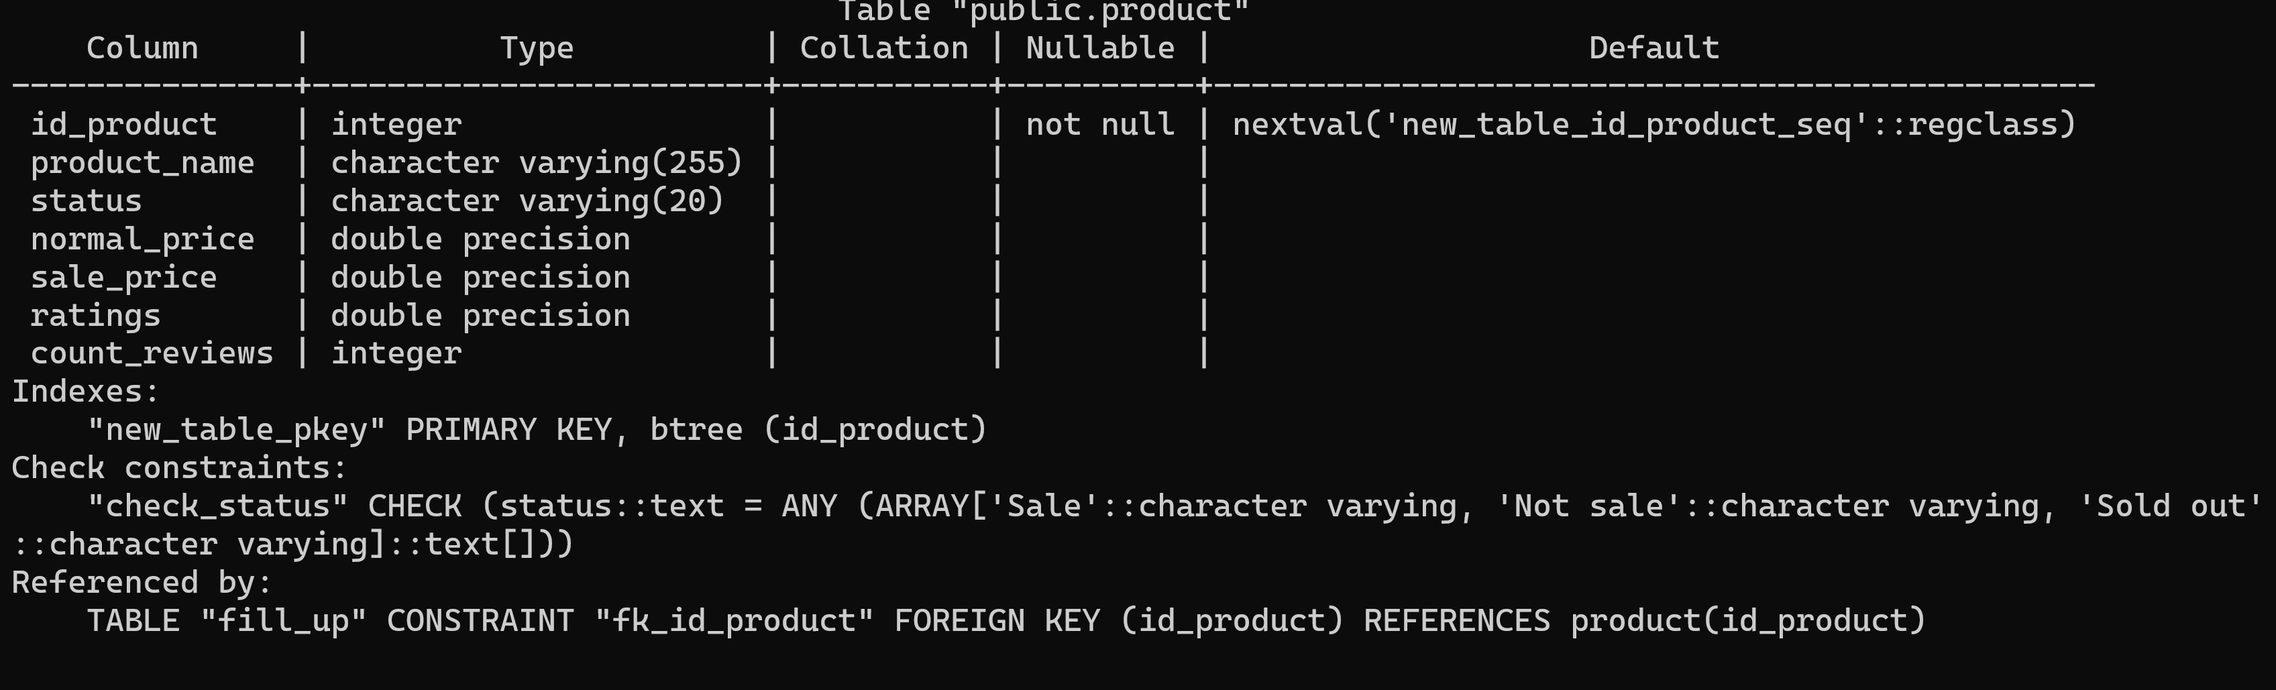
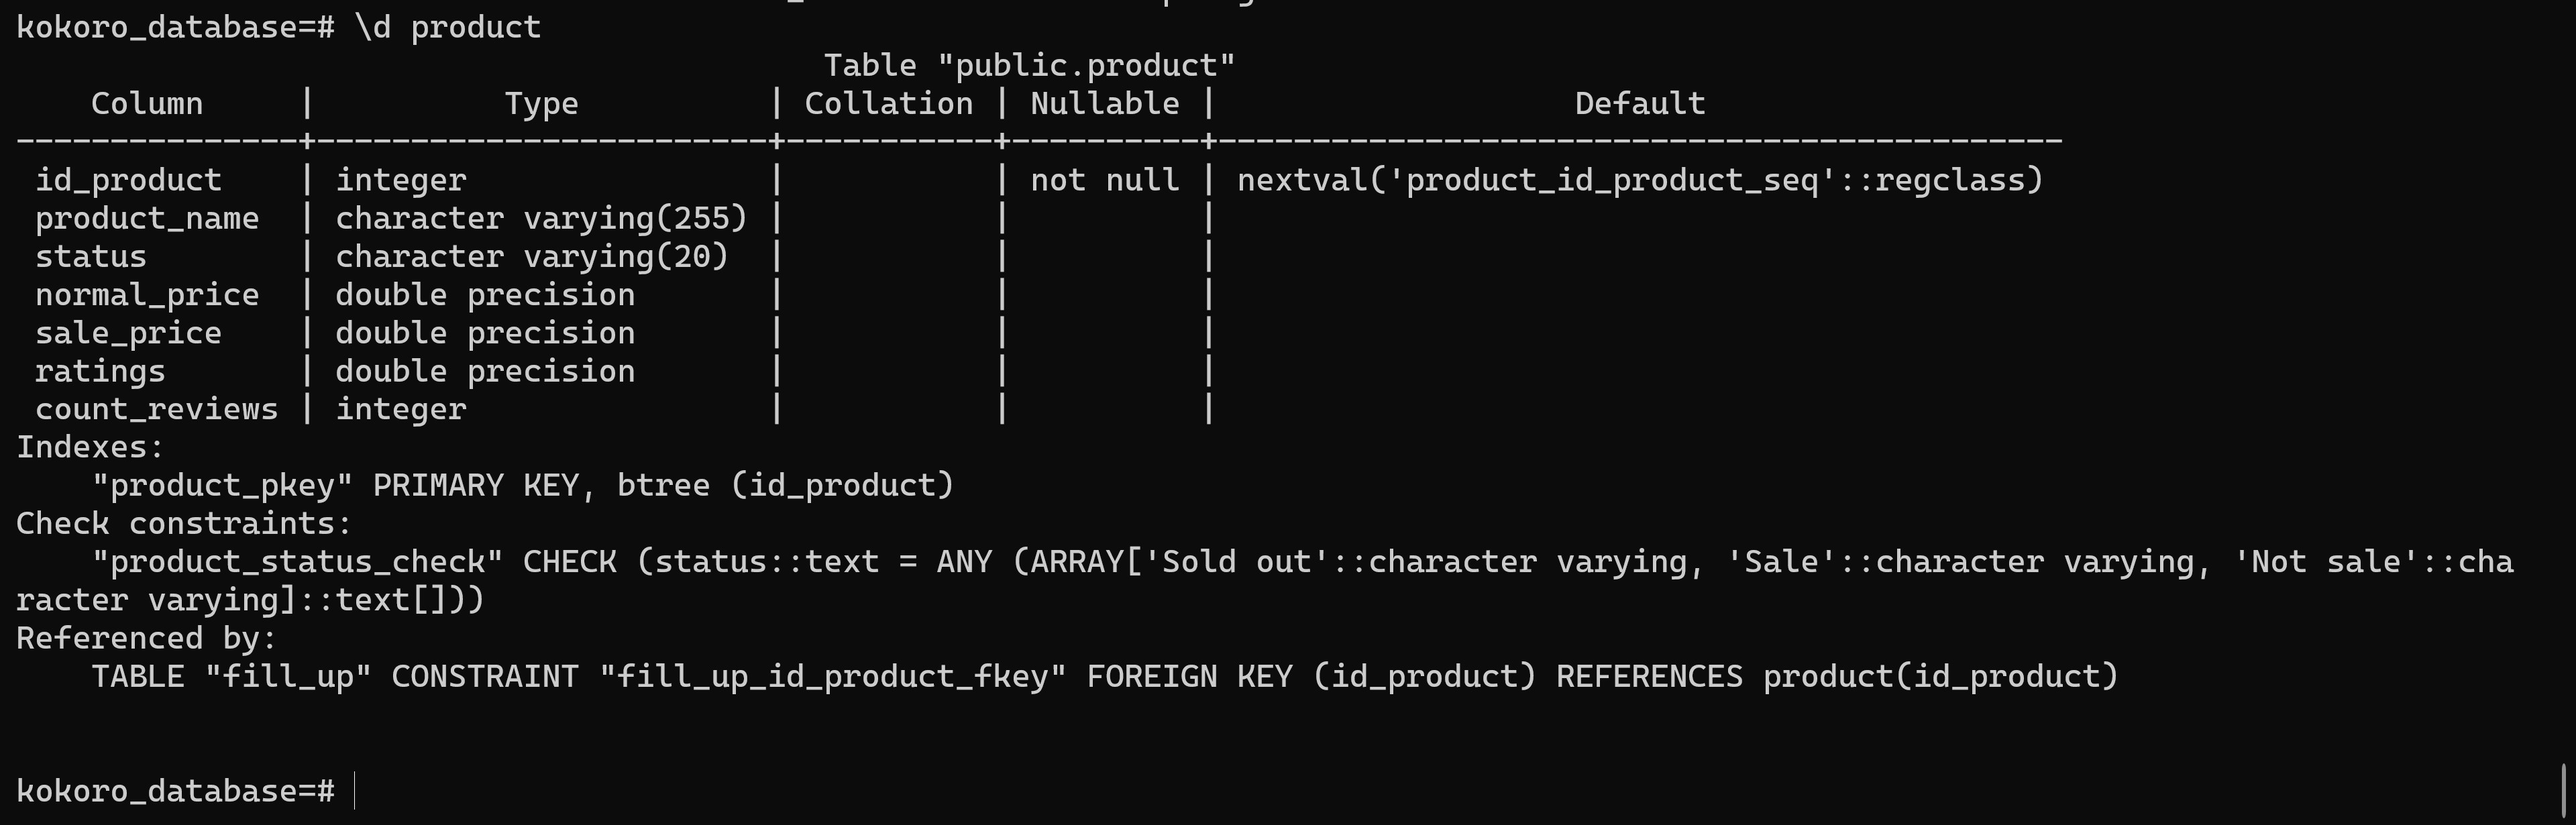
Update photo and readme

Changed region(s): [[0.0, 0.0, 0.9997, 0.9951], [0.6873, 0.0622, 0.7498, 0.0933]]

diff --git a/README.md b/README.md
@@ -36,6 +36,8 @@ Link for <a href="https://public.tableau.com/app/profile/ken.azizan/viz/SeleksiB
 <p>
   Pada proses data scraping saya menggunakan Jupyter-Lab, pada prosesnya saya menggunakan beberapa library diantaranya adalah BeautifulSoup, Selenium, chromedriver, dan Pandas. Untuk dapat mengakses website Kokoro Japan digunakan webchromedriver. Website kokoro japan adalah website dinamis maka Selenium harus digunakan untuk dapat mengambil seluruh data HTML dari website. Lalu dengan menggunakan beautifulSoup untuk melakukan scrape data yang dibutuhkan. Setelah itu dilakukan parsing,cleansing,dan transforming pada data yang telah didapatkan. Data tersebut disimpan pada JSON file dengan bantuan dataframe dari pandas.
 
+  Untuk membuat database serta memasukan data hasil scraping ke database postgresql digunakan python 3.11 dengan library psycopg2. psycopg2 digunakan untuk membuka koneksi dengan database postgreSQL sehingga dapat memasukan query dari file python. Kemudian digunakan juga library json untuk load data file json hasil scraping. Data hasil load tersebut akan dimasukan ke tabel dengan query insert.
+
   Proses data storing dilakukan dengan membuat perancangan dan pengenmbangan database kokoro japan menggunakan Entity Relation Diagram(ERD). Setelah itu, ERD diagram ditranslasikan menjadi relational diagram untuk dapat diimplementasikan pada DBMS PostgreSQL. Data yang sudah didapatkan dari proses scraping dimasukan ke dalam database. File dump SQL dari database dapat ditemukan pada folder data storing, sub-folder export.
 </p>
 
@@ -54,8 +56,24 @@ pip install time
 5. buka Scraping_Kokoro.ipynb di IDE pilihan anda
 6. Run All, jika ada error lakukan Run All lagi
 
+untuk memasukan data scraping ke database postgreSQL
+1. Clone repository ini
+2. Install library ini terlebih dahulu
+```
+pip install psycopg2
+pip install json
+```
+3. Buka command promp atau terminal dan masukan
+```
+cd /file_path
+```
+lalu
+```
+python store.py 
+```
+
 untuk memasukan data SQL ke DBMS PostgreSQL
-1. Clone repository
+1. Clone repository ini
 2. Buka command prompt pada folder Data storing, subfolder export
 3. Masukan database pada DBMS dengan command berikut
 ```
@@ -184,16 +202,13 @@ foreign  key:
 
 ### Data Storing
 
-* Saya menambahkan kolom id_product dengan query berikut
-![add_id](https://github.com/Kenazizan01/Seleksi-2023-Tugas-1/blob/main/Data%20Storing/screenshot/create_id_product.jpg)
-
-* Saya juga menambahkan constraint pada atribut status di tabel product hanya dapat diisi dengan 'Sale','Not sale', dan 'Sold out'
-![cons](https://github.com/Kenazizan01/Seleksi-2023-Tugas-1/blob/main/Data%20Storing/screenshot/constraint.jpg)
+* Berikut merupakan kode yang digunakan untuk membuat database beserta tabel dan constraint juga insert data pada tabel product menggunakan python
+![insert]()
 
 * Berikut tabel yang ada pada database
 ![tabel](https://github.com/Kenazizan01/Seleksi-2023-Tugas-1/blob/main/Data%20Storing/screenshot/table.jpg)
 
-* Berikut mengenai tabel product
+* Berikut mengenai tabel product dan constraint
 ![product](https://github.com/Kenazizan01/Seleksi-2023-Tugas-1/blob/main/Data%20Storing/screenshot/product.jpg)
 
 * Berikut isi tabel product
@@ -212,9 +227,12 @@ Library
 - Pandas
 - Chromedriver
 - time
+- psycopg2
+- json
 
 Blog
 - <a href="https://medium.com/python-in-plain-english/introduction-to-python-web-scraping-libraries-selenium-beautifulsoup-and-scrapy-71a1d86b7aaf">introduction of webscraping library</a>
 - <a href="https://pythonbasics.org/selenium-scroll-down/">Selenium scroll down</a>
+- <a href="https://www.tutorialspoint.com/python_data_access/python_postgresql_create_database.htm">Create database on postgreSQL using python</a>
 ## Author
 ### Ken Azizan - 18221107
